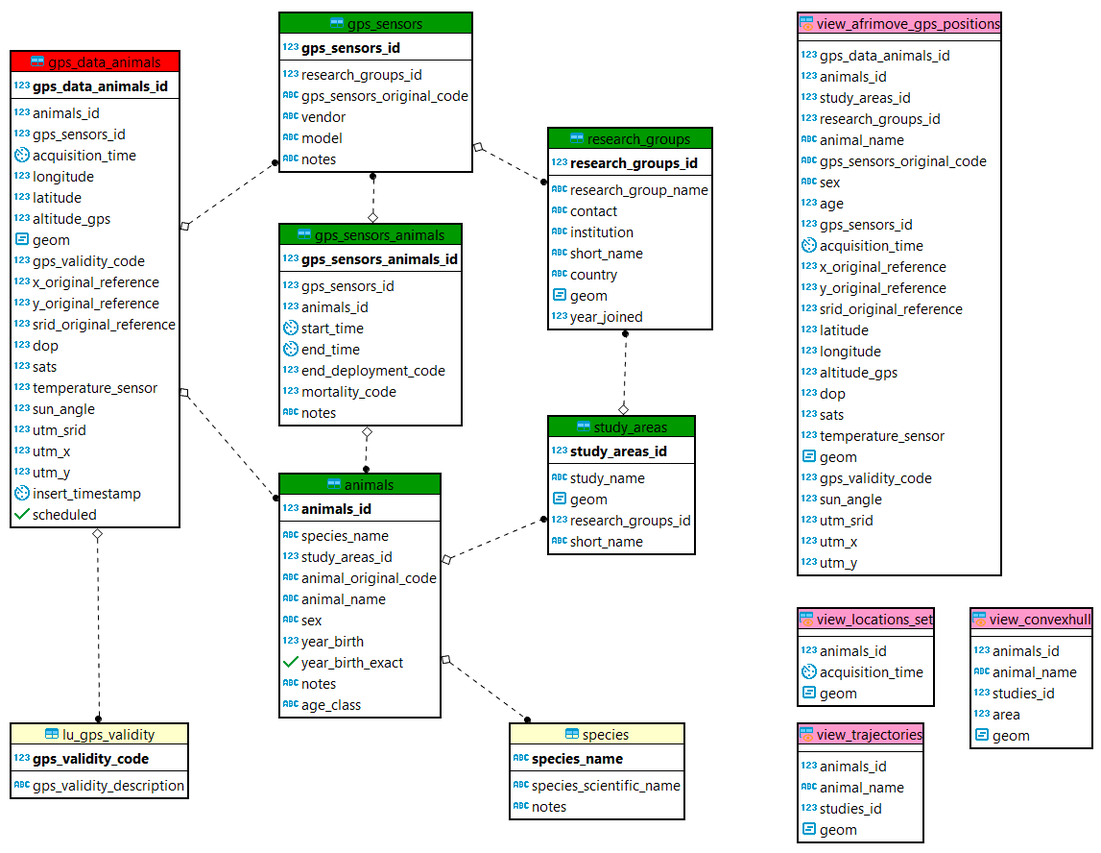
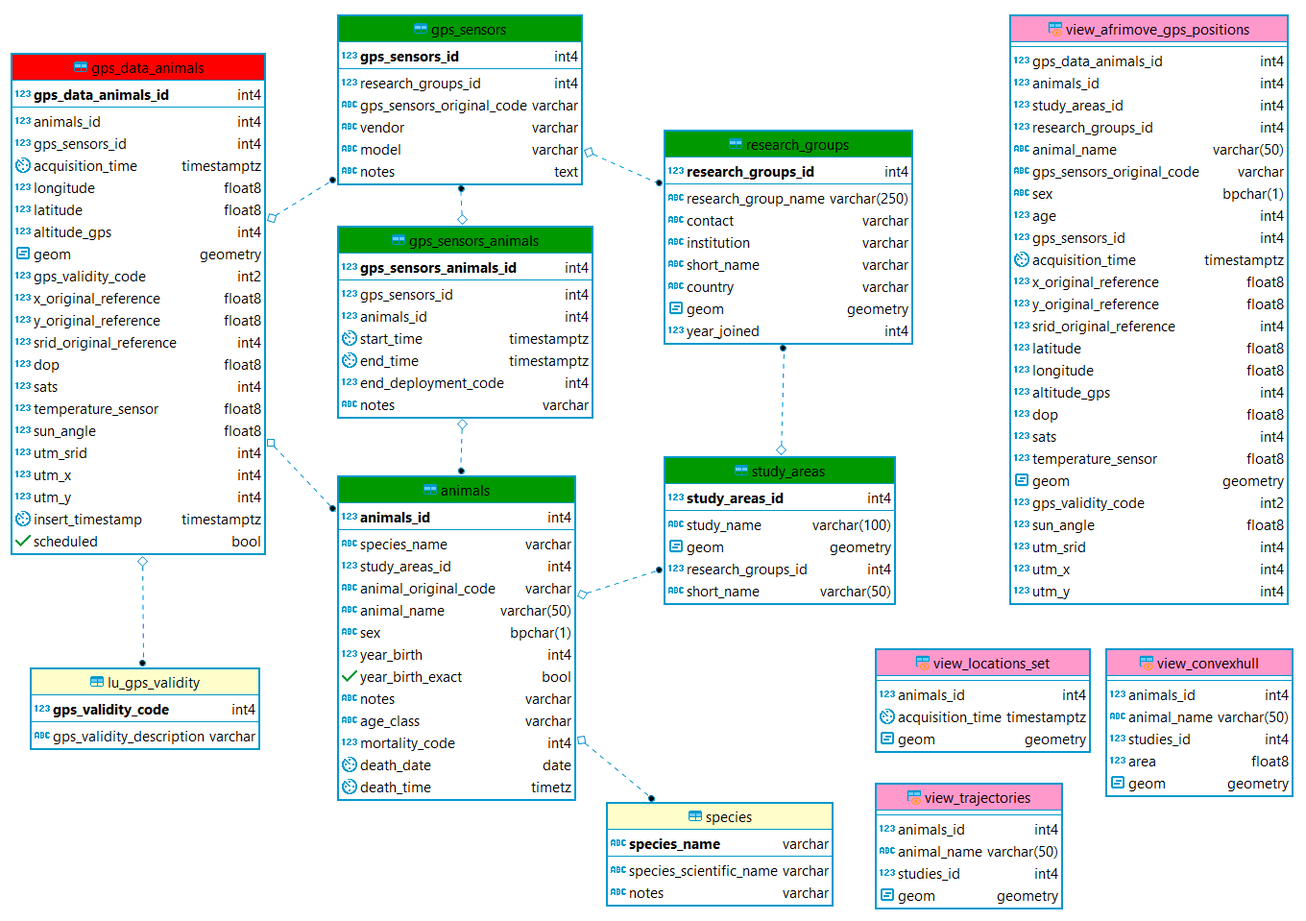
finalization of user guide and minor improvement

diff --git a/db_documentation/user_guide.md b/db_documentation/user_guide.md
@@ -9,7 +9,7 @@
 
 ## <a name="Introduction"></a> Introduction  
 
-This manual is a (very synthetic) technical documentation about the content of **AFRIMOVE database** for the project partners. It illustrates the characteristics of the AFRIMOVE e-infrastructure and the data processing (acquisition, harmonization, quality check). It provides a very general overview of the main features of relational databases for they who do not have any background in data management. It also describes the data that are stored in the AFRIMOVE database and how they are organized, with the description of each table and field stored in the database.  
+This manual is a (very synthetic) technical documentation about the content of **AFRIMOVE database** for the project partners. It illustrates the characteristics of the AFRIMOVE e-infrastructure and the data processing steps (acquisition, harmonization, quality check). It provides a very general overview of the main features of relational databases for they who do not have any background in data management. It also describes the data that are stored in the AFRIMOVE database and how they are organized, with the description of each table and field stored in the database.  
 
 Note that this is not a comprehensive manual about database. It shortly introduces the AFRIMOVE database content and the main operations that can be done on it. For an introduction to the database language (Structured Query Language, SQL) you can explore one of the many online tutorials. In particular, the **[training material](https://github.com/feurbano/data_management_2018/)** of the course *"Dealing with Spatio-temporal Data in Movement and Population Ecology"*, June 17-22 2018 - Trento, Italy, which is specifically tailored on movement data (and that uses the same database structure as AFRIMOVE).  
 Other open tutorials, guides and courses available on the web are for example:
@@ -25,7 +25,7 @@ For an introduction to PostGIS (the spatial extension of PostgreSQL), you can gi
 
 * [PostGIS into by BoundlessGeo](http://workshops.boundlessgeo.com/postgis-intro/)
 
-In addition, for they who want to understand the technicalities of (or replicate the) AFRIMOVE database structure and tools or to get more skills on data management for wildlife tracking data, we suggest the book *[Spatial Database for GPS Wildlife Tracking Data- A Practical Guide to Creating a Data Management System with PostgreSQL/PostGIS and R](https://www.springer.com/us/book/9783319037424)* (Urbano & Cagnacci Ed., 2014). Contact the AFRIMOVE coordinator if you want a digital version of the chapters of the book (for AFRIMOVE partners).
+In addition, for they who want to understand the technicalities of (or replicate) the AFRIMOVE database structure and tools or to get more skills on data management for wildlife tracking data, we suggest the book *[Spatial Database for GPS Wildlife Tracking Data- A Practical Guide to Creating a Data Management System with PostgreSQL/PostGIS and R](https://www.springer.com/us/book/9783319037424)* (Urbano & Cagnacci Ed., 2014). Contact the AFRIMOVE coordinator if you want a digital version of the chapters of the book (for AFRIMOVE partners).
 
 AFRIMOVE **database manager** (Ferdinando) and **data curators** (Melinda and Victoria) are always available for AFRIMOVE database users whenever technical support is needed. For example for:  
 
@@ -39,7 +39,7 @@ AFRIMOVE **database manager** (Ferdinando) and **data curators** (Melinda and Vi
 
 The **[AFRIMOVE spatial databases](http://eurodeer2.fmach.it/phppgadmin/)** is hosted at [Edmund Mach Foundation](http://www.fmach.it/).
 
-More information on the projects, including activities, partners, outcomes and news can be found at the **[AFRIMOVE website](http://www.AFRIMOVE.org)**.
+More information on the project, including activities, partners, outcomes and news can be found at the **[AFRIMOVE website](http://www.AFRIMOVE.org)**.
 
 The participation to the project and the use of the data stored in the database is ruled by the Terms of Use signed by each partner. It is a kind of gentlemen agreement mainly based on good sense. The most important point is *"[...] The Partners maintain full property and control of their own dataset [...]"*. No ownership is transferred and data are used only if data owners explicitly authorize it for each specific research. This also mean that data are not open to the public. But the network is open to any interested scientist.
 
@@ -47,13 +47,13 @@ The content of this guide is largely derived (and adapted) from the **[EURODEER 
 
 ## <a name="AFRIMOVE_Overview"></a> Database Overview
 
-The main goal of AFRIMOVE project is to join and harmonize tracking data of African animals and additional information from different research groups located in different countries in a common data repository. To achieve this goal, we set up a software platform that enables all partners to access, manage and analyze the shared data in a cost-effective fashion. The main requirements of the project and the assessment of possible solutions are described in the paper [Wildlife tracking data management: a new vision ](http://rstb.royalsocietypublishing.org/content/365/1550/2177)(Urbano et al., 2013).
+The main goal of AFRIMOVE project is to join and harmonize tracking data of African wildlife and additional information from different research groups located in different countries in a common data repository. To achieve this goal, we set up a software platform that enables all partners to access, manage and analyze the shared data in a cost-effective fashion. The main requirements of the project and the assessment of possible solutions are described in the paper [Wildlife tracking data management: a new vision ](http://rstb.royalsocietypublishing.org/content/365/1550/2177)(Urbano et al., 2013).
 
-The main technical result is a relational database management system with a spatial extension, built on the open source software [PostgreSQL](www.postgresql.org) (at 2018, version 9.5) and [PostGIS](www.postgis.org) (at 2018, version 2.3). It also includes the extension [Pl/R](https://github.com/postgres-plr/plr) that allows the integration of R tools into the database. The AFRIMOVE database is physically installed on a server at Edmund Mach Foundation, but it is accessible from everywhere in the world (by users with registered account). It works as a centralized server that sends data, when requested, to client applications. A client is a software that accesses the remote service (database) on another computer system (server), by way of a network; the client application can be located anywhere and multiple connections to the database can be managed at the same time. Example of client applications are those used to manage the data (e.g., pgAdmin, phpPgAdmin), visualize spatial information (e.g., QGIS, ArcGIS) or perform analysis (e.g., R).
+The main technical result is a relational database management system with a spatial extension, built on the open source software [PostgreSQL](www.postgresql.org) (at 2018, version 9.5) and [PostGIS](www.postgis.org) (at 2018, version 2.5). It also includes the extension [Pl/R](https://github.com/postgres-plr/plr) that allows the integration of R tools into the database. The AFRIMOVE database is physically installed on a server at Edmund Mach Foundation, but it is accessible from everywhere in the world (by users with a registered account). It works as a centralized server that sends data, when requested, to client applications. A client is a software that accesses the remote service (database) stored on another computer system (server), by way of a network; the client application can be located anywhere and multiple connections to the database can be managed at the same time. Example of client applications are those used to manage the data (e.g., pgAdmin, phpPgAdmin), visualize spatial information (e.g., QGIS, ArcGIS) or perform analysis (e.g., R).
 
 The server-client structure of the system offers the opportunity to build a very flexible and modular software platform, as any software able to connect to the central database can be integrated. Storing, managing, accessing and analysing GPS data from several research groups throughout Europe is thus possible, while each researcher can use its favourite software application, preserving the consistency of the data and avoiding data duplication with connected risk of errors. The most used applications to interact with the AFRIMOVE database are Desktop GIS, statistics and Web tools, as well as office suites. 
 
-In the document [Database connection](https://github.com/afrimove/afrimove_db/blob/master/db_documentation/db_connection.md) you can see some of these applications and how to connect them with the AFRIMOBE database, while in [Database Content](#AFRIMOVE_Content) and [Database Objects Description](#AFRIMOVE_Objects) you can explore database structure and content.  
+In the document [Database connection](https://feurbano.github.io/afrimove_db/db_documentation/db_connection.html) you can see some of these applications and how to connect them with the AFRIMOBE database, while in [Database Content](#AFRIMOVE_Content) and [Database Objects Description](#AFRIMOVE_Objects) you can explore database structure and content.  
 In this section, you find an overview of the whole process from data acquisition to data ingestion into the AFRIMOVE database, with a very short introduction to the main features of relational database. 
 
 ### AFRIMOVE data work flow
@@ -62,7 +62,7 @@ In this section, you find an overview of the whole process from data acquisition
 Data stored in the afrimove_db is collected by project partners who fully own the data. No data are collected by AFRIMOVE project itself, which is instead a project to share data of individual institutions. 
 
 #### Data harmonization
-A challenging part in the creation of the afrimove_db is the harmonization of data sets from different sources. First of all, it is necessary to identify a set of information that are collected by all (or at least most of) the partners. Then, even when the information is related to the same objects phenomena, it can be collected, coded or stored in different ways (e.g., sampling methods, units, classes). The data have been processed to speak "the same language". In some cases this requires the aggregation of the original data, but this is the only way to run analysis over different areas and environmental gradients.  
+A challenging part in the creation of the afrimove_db is the harmonization of data sets from different sources. First of all, it is necessary to identify a set of information that are collected by all (or at least most of) the partners. Then, even when the information is related to the same objects phenomena, it can be collected, coded or stored in different ways (e.g., sampling methods, units, classes). The data is processed to speak "the same language". In some cases this requires the aggregation of the original data, but this is the only way to run analysis over different areas and environmental gradients.  
 Particularly, data owners are asked (with the support of the AFRIMOVE data curators) to format the data in order to be consistent with the afrimove_db. Then, it is up to the database manager and data curators to process data and upload into the database.
 
 #### Quality checks
@@ -141,54 +141,227 @@ Although any application that support standard database connection can be used w
 
 ## <a name="AFRIMOVE_Content"></a> Database content
 
-
-<center><img src="images/db_schema.png" height="600"/></center>
-
------>
-
-The EURODEER database is the repositories where data coming from the different partners of the EURODEER network are harmonized, stored and shared to be analyzed. The first goal of EURODEER is to investigate variations in roe deer behavioural ecology along environmental gradients or population responses to specific conditions, such as habitat changes, impact of human activities, different hunting regime. Therefore, the main set of data stored into the EURODEER database are those generated by biotelemetry sensors to monitor animals movement, particularly:
+The AFRIMOVE database is the repositories where data coming from the different partners of the AFRIMOVE network are harmonized, stored and shared to be analyzed. The first goal of AFRIMOVE is to investigate variations in roe deer behavioural ecology along environmental gradients or population responses to specific conditions, such as habitat changes, impact of human activities, different hunting regime. Therefore, the main set of data stored into the database are those generated by biotelemetry sensors to monitor animals movement, particularly:
 
 * GPS data
 * VHF data
 * Accelerometer data
 
-These are the core information that was initially collected and shared in the EURODEER framework. After some years, we realized that while these data sets provide a huge mine of data to dig, it is when they are couple with additional information like that of the individuals, populations, management regimes and the environment that they can help to fully decipher the mechanisms of animals movement. This is why in the last years EURODEER has been and is still investing a lot in getting these additional information from each partner, harmonize them and integrate into the analysis. This is a complex process but ultimately it is the biggest added value of the collaboration among scientist on top of the integration into a single repository of the data coming from sensors. The work of data harmonization requires long and iterative discussions but it is also an opportunity to identify good practice (e.g. data collection protocols) that can then be shared with a wider scientific community.
+These are the core information that are collected and shared in the AFRIMOVE framework. But while these data sets provide a huge mine of data to dig, it is when they are couple with additional information like that of the individuals, populations, management regimes and the environment that they can help to fully decipher the mechanisms of animals movement. This is why we aim at collecting also these additional information from each partner, harmonize them and integrate into the analysis. This is a complex process but ultimately it is the biggest added value of the collaboration among scientist on top of the integration into a single repository of the data coming from sensors. The work of data harmonization requires long and iterative discussions but it is also an opportunity to identify good practice (e.g. data collection protocols) that can then be shared with a wider scientific community.
 
-Sensor data sets (GPS, VHF, accelerometer) in addition to the measures collected by the sensors include the list of animals (with key attributes like sex and age), the list and type/model of sensors, and the start and end of sensor deployment (with the reason for the end of deployment).
-In addition to sensor data, at the moment in the EURODEER data sets we have information on:
+Sensor data sets (GPS, VHF, accelerometer) in addition to the measures collected by the sensors include the list of animals (with key attributes like sex, age and how hey died), the list and type/model of sensors, and the start and end of sensor deployment (with the reason for the end of deployment).
 
-* Research groups, study areas and sub-areas
-* Intra- and inter-species interaction and human pressure (predation, competition, human pressure)
-* Captures
-* Contacts
-* Feeding sites
-* Environmental data
+Here below is reported a simplified ER diagram. It illustrates the main tables and views and the relations among the tables.
+<center><img src="images/db_schema.png" height="600"/></center>
 
-A short description of the information content of these data sets is reported in the next sub-sections together with a diagram of the data model. In the document **[eurodeer_db Dictionary](eurodeer_db_dictionary.md)** is reported the full description of each table/attribute.
+A short description of the information content of these data sets is reported in the next sub-sections together with a diagram of the data model. 
 
-All the core information is stored in the schema **main**, with the exception of the environmental data that are available in the schema **env_data** and the schema **env_data_ts** (for layers with a time series, e.g., NDVI and snow). In the schema **tools** there are the functions created by EURODEER to process and analyze the data (see [functions](eurodeer_db_functions.md)). The schema **analysis** is used to store informations related to analysis that can be reused by all EURODEER partners. The working schema **ws\_*** are spaces where each partner institution can create table and process the data (one per institute). Finally, in the **lu_tables** schema, the database stores all the look up tables, i.e., those tables used to define (code) a valid domain of values for specific fields (e.g., the list of capture methods).
+All the core information is stored in the schema **main**, with the exception of the environmental data that are available in the schema **env_data** and the schema **env_data_ts** (for layers with a time series, e.g., NDVI and snow). In the schema **tools** there are the functions created to process and analyze the data. The schema **analysis** is used to store informations related to analysis that can be reused by all partners. The working schema **ws\_*** are spaces where each partner institution can create table and process the data (one per institute). Finally, in the **lu_tables** schema, the database stores all the look up tables, i.e., those tables used to define (code) a valid domain of values for specific fields (e.g., the list of capture methods).
 
 ### Research groups, study areas and sub-areas
-Sensor data are always related to animals. Each animal is assigned to one (and only one) study area. Each study area belongs to (is monitored by) a research group. The same research group can have more than one study area. Each study area is divided into one or more sub-areas, that roughly recall the concept of population. Each sub-area is characterized by a set of information (human disturbance, performance, predators, interspecific competition, hunting pressure, road density, which are collected every one or more years. Sensors (GPS, VHF, accelerometer) are also attributed to a specific research group.
-In the view **main.view_reasearch_groups_euroungulates** all the groups belonging to EUROUNGULATES are reported (through external tables that connect with EUREDDEER and EUROBOAR database).
-  
-The entity-relationship (ER) diagram of the tables is reported here below (click on it to enlarge).
-<img src="images/er_core.png" height="600"/>
+Sensor data are always related to animals. Each animal is assigned to one (and only one) study area. Each study area belongs to (is monitored by) a research group. The same research group can have more than one study area. Sensors (GPS, VHF, accelerometer) are attributed to a specific research group.
 
 ### GPS data
-GPS locations are stored already associated to animals (which is a non-trivial step, specially when the same sensor is associated to different animals once recovered from the previous one). The locations, with a list of derived ancillary information calculated using the information on coordinates and acquisition time, and intersecting with environmental layers are stoerd in the table **main.gps_data_animals**. The original file coming from the sensor is not stored in EURODEER as in the database are shared data already preprocessed by the partners and only quality checked before being uploaded into eurodeer_db. It is important to note that all the outliers are not removed from the dataset but flagged using the field *gps_validity_code*. This includes, among the others, records with no coordinates, records with wrong coordinates, record with suspicious coordinates, records not registered while the sensor was deployed on the animal. When data are analyzed, records must be selected according to the quality level required by the specific analysis.  
+GPS locations are stored already associated to animals (which is a non-trivial step, specially when the same sensor is associated to different animals once recovered from the previous one). The locations, with a list of derived ancillary information calculated using the information on coordinates and acquisition time, and intersecting with environmental layers are stored in the table **main.gps_data_animals**. The original file coming from the sensor is not stored in the db as in the database are shared data already preprocessed by the partners and only quality checked before being uploaded. It is important to note that all the outliers are not removed from the dataset but flagged using the field *gps_validity_code*. This includes, among the others, records with no coordinates, records with wrong coordinates, record with suspicious coordinates, records not registered while the sensor was deployed on the animal. When data are analyzed, records must be selected according to the quality level required by the specific analysis.  
 The information on the deployment are stored in the table **main.gps_sensors_animals**, including the reasons of the end of the deployment. This table is used to check the correct attribution of locations to animals in the table **main.gps_data_animals**. Information on sensors are stored in **main.sensors**, while the information on animals in **main.animals**. A set of look up tables are used to store the list of valid values for some columns of these tables.  
-In the views **analysis.view_convexhull** and ** analysis.view_trajectories** are available the trajectories and convex hull polygons related to each animal (and dynamically updated). These can be loaded in QGIS for spatial visualization. In the view **analysis.view_ltraj_class** data are formatted according to [R adehabitat package](https://cran.r-project.org/web/packages/adehabitat/adehabitat.pdf) to facilitate the import for analysis. See **[eurodeer_db Dictionary](eurodeer_db_dictionary.md)** for the complete list of view associted to GPS data.
-
-The entity-relationship (ER) diagram of the tables is reported here below (click on it to enlarge).
-<center><img src="images/er_gps.png" height="600"/></center>
+In the views **analysis.view_convexhull** and ** analysis.view_trajectories** are available the trajectories and convex hull polygons related to each animal (and dynamically updated). These can be loaded in QGIS for spatial visualization. In the view **analysis.view_ltraj_class** data are formatted according to [R adehabitat package](https://cran.r-project.org/web/packages/adehabitat/adehabitat.pdf) to facilitate the import for analysis.
 
 ### Environmental data
 *WORK IN PROGRESS*
 
-## <a name="AFRIMOVE_Objects"></a> Database Objects Description
+# <a name="AFRIMOVE_Objects"></a> Database Objects Description
+
 Every single object in the afrimove_db (schemas, tables, columns, views, functions) is described inside the database (as [comment](https://www.postgresql.org/docs/devel/static/sql-comment.html)). The descriptions are visible in all db interface (e.g., pgAdmin) when the element is selected. 
 
------>
-An extended report, **[eurodeer_db Dictionary](eurodeer_db_dictionary.md)** that includes the description of the objects of the database (generate with this [SQL code](generate_database_dictionary_sql/generate_dictionary.md) in markdown format, taking the comments from the database itself).
+Here you can see a short report that includes the description of the objects of the database (schema, tables, columns) in markdown format, taking the comments from the database itself.
+
+## SCHEMA: main  
+**The schema "main" is the place where all the core information of the main objects are stored: data from sensors (at the moment, GPS, VHF, activity), sensors, animals, studies, research groups.**  
+
+### TABLE: main.animals  
+Table with the information on the animals.  
+
+#### COLUMNS 
+
+* **animals\_id** [integer]: *Database id of population. Each animal belongs to a population, which is part of a study area. The same study area can have multiple populations. Linked with the table main.populations.* 
+* **species\_name** [character varying]: *Name of the species of the individual.* 
+* **study\_areas\_id** [integer]: *Study area where the animal is located (reference to table main.study\_area).* 
+* **animal\_original\_code** [character varying]: *Identifier of the animal in the original data set.* 
+* **animal\_name** [character varying]: *Nome of the animal in the original data set.* 
+* **sex** [character]: *Code for sex. It can be either "f" (female) or "m" (male). When the sex is not known, the field can be left empty.* 
+* **year\_birth** [integer]: 
+* **year\_birth\_exact** [boolean]: 
+* **notes** [character varying]: *Open field where general notes on the animals can be added.* 
+* **age\_class** [character varying]: *Age class of the animal (e.g. adult). This information is not coded as the age class might vary according to the species.* 
+* **mortality\_code** [integer]: 
+* **death\_date** [date]: 
+* **death\_time** [time with time zone]: 
+
+### TABLE: main.gps\_data\_animals  
+Table with GPS locations data associated to animals and with a list of derived ancillary information calculated using the information on coordinates and acquisition time, and intersecting with environmental layers.  
+
+#### COLUMNS 
+
+
+* **gps\_data\_animals\_id** [integer]: *Eurodeer identifier for the location.* 
+* **animals\_id** [integer]: *Eurodeer identifier for the animal.* 
+* **gps\_sensors\_id** [integer]: *Eurodeer identifier for the GPS sensor.* 
+* **acquisition\_time** [timestamp with time zone]: *Date and time of acquisition of the GPS coordinates (with time zone).* 
+* **longitude** [double precision]: *Longitude recorded by the GPS sensor.* 
+* **latitude** [double precision]: *Latitude recorded by the GPS sensor.* 
+* **altitude\_gps** [integer]: *Altitude recorded by the GPS sensor (related to the centre of the earth).* 
+* **geom** [USER-DEFINED]: *Geometry of the location (point).* 
+* **gps\_validity\_code** [smallint]: *This field tags the record according to its "validity" or degree of reliability (explanation of codes in lu\_tables.lu\_gps\_validity).* 
+* **x\_original\_reference** [double precision]: *Coordinate X as computed by the software connected to the GPS sensor (in the srid\_original\_reference).* 
+* **y\_original\_reference** [double precision]: *Coordinate Y as computed by the software connected to the GPS sensor (in the srid\_original\_reference).* 
+* **srid\_original\_reference** [integer]: *Reference system of the projected coordinates provided by the software connected to the GPS sensor.* 
+* **dop** [double precision]: *Dilution Of Precision.* 
+* **sats** [integer]: *Number of satellites used by the GPS sensor to calculate the coordinates.* 
+* **temperature\_sensor** [double precision]: *Temperature as measured by the sensor associated to the GPS.* 
+* **sun\_angle** [double precision]: *Sun angle above (or below) the horizon (in degrees) as computed by the function tools.sun\_elevation\_angle\_function.* 
+* **utm\_srid** [integer]: *SRID code of the UTM zone of the centroid of the locations for the animal.* 
+* **utm\_x** [integer]: *X coordinate projected in the utm\_srid UTM zone.* 
+* **utm\_y** [integer]: *Y coordinate projected in the utm\_srid UTM zone.* 
+* **insert\_timestamp** [timestamp with time zone]: *Date and time when the record was uploaded into the database.* 
+* **scheduled** [boolean]: *Some locations might be taken even if they were not scheduled (in this case, the value is FALSE).* 
+
+### TABLE: main.gps\_sensors  
+Catalogue of GPS sensors. Each sensor belongs to a research group. The attributes include the brand and the model. The id used in the original data set is also included.  
+
+#### COLUMNS 
+
+
+* **gps\_sensors\_id** [integer]: *afrimove identifier for GPS sensors.* 
+* **research\_groups\_id** [integer]: *Id of the research group that owns the GPS sensor.* 
+* **gps\_sensors\_original\_code** [character varying]: *Identifier of the GPS sensor in the original data set.* 
+* **vendor** [character varying]: *Company that produced the sensor.* 
+* **model** [character varying]: *Additional notes about the GPS sensor.* 
+* **notes** [text]: 
+
+### TABLE: main.gps\_sensors\_animals  
+Table with the information on the deployments of GPS sensors on animals (starting and ending date and time of the deployment), reason of the end of deployment, reference capture. Here we identify when the sensor stopped to monitor the (alive) animal. So the date is not that of collar recovery (it goes in table animals\_contacts, nor the date of death (table animals).  
+
+#### COLUMNS 
+
+
+* **gps\_sensors\_animals\_id** [integer]: *afrimove identifier of the deployment.* 
+* **gps\_sensors\_id** [integer]: *afrimove identifier of the GPS sensor.* 
+* **animals\_id** [integer]: *afrimove identifier of the animal.* 
+* **start\_time** [timestamp with time zone]: *Time and date of the start of the deployment.* 
+* **end\_time** [timestamp with time zone]: *Time and date of the end of the deployment.* 
+* **end\_deployment\_code** [integer]: *Code for the reason of the end of deployment (reference to the look up table lu\_tables.lu\_end\_deployment).* 
+* **notes** [character varying]: *Open field where general notes on the deployment can be added.* 
+
+### TABLE: main.research\_groups  
+Research groups are the highest level in the hierarchy of the database. Each research group can have many study areas and can own many collars.  
+
+#### COLUMNS 
+
+
+* **research\_groups\_id** [integer]: *afrimove identifier for research groups.* 
+* **research\_group\_name** [character varying]: *Name of the research group.* 
+* **contact** [character varying]: *Contact person of the research group for the afrimove project.* 
+* **institution** [character varying]: *Institute of the research group.* 
+* **short\_name** [character varying]: *Short name of the research group.* 
+* **country** [character varying]: *Country of the research group.* 
+* **geom** [USER-DEFINED]: *Approximate location of the research group.* 
+* **year\_joined** [integer]: *Year when the group joined the afrimove project.* 
+
+### TABLE: main.species  
+Table with the list of species monitored by Afrimove partners.  
+
+#### COLUMNS 
+
+
+* **species\_name** [character varying]: *Name of the species.* 
+* **species\_scientific\_name** [character varying]: *Scientific name of the species.* 
+* **notes** [character varying]: *Notes about the species.* 
+
+### TABLE: main.study\_areas  
+Study areas are the areas monitored by research groups. Each study area can have many animals. Study areas can have defined, approximated, or no specific spatial boundaries.  
+
+#### COLUMNS 
+
+
+* **study\_areas\_id** [integer]: *afrimove identifier for study areas.* 
+* **study\_name** [character varying]: *Name of the study area.* 
+* **geom** [USER-DEFINED]: *Multi polygons layer of study areas. This spatial layer can be used as a reference to locate the study areas. Study areas can have defined boundaries (e.g. fenced). In this case, the field "defined\_bundaries" is set to 1. Otherwise a reference boundary is created as the convex hull polygon (plus a buffer of 1 km) of the existing locations. These boundaries should be updated whenever a new set of locations is uploaded in the database.* 
+* **research\_groups\_id** [integer]: *Indentifier of the research group that is monitoring animals in this study area.* 
+* **short\_name** [character varying]: *Short version of the study area name for maps and short reports.* 
+
+### VIEW: main.view\_afrimove\_gps\_positions  
+Animal locations with valid coordinates and information on animals (study area, research group, age and sex).  
+
+
+### VIEW: main.view\_afrimove\_gps\_positions\_check\_shp  
+Animal locations with valid coordinates and information on animals (study area, research group, age and sex) formatted to be exported as shp (names shorter than dbf limits).  
+
+
+### VIEW: main.view\_afrimove\_gps\_positions\_r  
+Animal locations with valid coordinates and information on animals (study area, research group, age and sex) formatted to be exported in R.  
+
+
+### VIEW: main.view\_afrimove\_gps\_positions\_shp  
+Animal locations with valid coordinates and information on animals (study area, research group, age and sex) formatted to be exported as shp (names shorter than dbf limits).  
+
+
+### VIEW: main.view\_convexhull  
+View with the convex hull of all valid locations per all the animals of afrimove dataset.  
+
+
+### VIEW: main.view\_locations\_set  
+View that returns the core information of locations data (id of the animal, the acquisition time and the geometry). Non valid records are represented without the geometry. Duplicated timestamps  and wrong locations are excluded.  
+
+
+### VIEW: main.view\_trajectories  
+Complete trajectories as linear spatial features per each of the animals of afrimove dataset.  
+
+
+## SCHEMA: lu\_tables  
+**The schema "lu_tables" is where the look up tables (lu_tables) are stored. These tables store the list and the description of codes referenced by other tables in the database and are a kind of valid domain for specific fields.**  
+
+### TABLE: lu\_tables.lu\_end\_deployment  
+Look up table for end\_deployment\_code field: it specifies the meaning of the code used to identify the reasons of the end of deployment.  
+
+#### COLUMNS 
+
+
+* **end\_deployment\_code** [integer]: *Code for the reason of the end of deployment.* 
+* **end\_deployment\_description** [character varying]: *Desciption of the reason of the end of deployment.* 
+### TABLE: lu\_tables.lu\_gps\_validity  
+Look up table for GPS locations validity.  
+
+#### COLUMNS 
+
+
+* **gps\_validity\_code** [integer]: *Code of the GPS locations validity.* 
+* **gps\_validity\_description** [character varying]: *Description of the GPS locations validity code.* 
+### TABLE: lu\_tables.lu\_mortality  
+Look up table for mortality\_code field (table main.animals\_contacts): it specifies the meaning of the code used to identify the reasons of the death of the animal.  
+
+#### COLUMNS 
+
+
+* **mortality\_code** [integer]: *Code for the reason of the death of the animal.* 
+* **mortality\_description** [character varying]: *Desciption of the reason of the death of the animal.* 
+### TABLE: lu\_tables.lu\_temperature\_validity  
+Look up table for temperature locations validity.  
+
+#### COLUMNS 
+
+* **temperature\_validity\_code** [integer]: *Code of the temperature validity.* 
+* **temperature\_validity\_description** [character varying]: *Description of the temperature validity code.*   
+
+## SCHEMA: tools  
+**The schema "tools" hosts all the functions and tools that are used throughout the database to manage, massage, analyse and query data.**  
+
+## SCHEMA: temp  
+**This schema stores temporary objects (tables, functions, ...) used for analysis or for testing purposes. Elements stored in this schema can be deleted at any time by the database administrator.**  
+
+## SCHEMA: public  
+**standard public schema**  
+
+## SCHEMA: ws_cnrs
+**Working schema for members of CNRS. This can be used to create any object they need for their studies. No other users will have access to this schema.**
+
 

diff --git a/db_documentation/db_connection.md b/db_documentation/db_connection.md
@@ -2,11 +2,13 @@
 
 ## <a name="connection"></a> Connecting with the  Database
 
-*Please not that in some pictures you might find a reference to eurodeer_db instead of to afrimove_db. All the examples work perfectly once you replace eurodeer with afrimove as (at the moment) they are hosted on the same server.*
+*Please not that in some pictures you might find a reference to eurodeer_db instead of afrimove_db. All the examples work perfectly once you replace eurodeer with afrimove as (at the moment) they are hosted on the same server.*
 
 [PostgreSQL](https://www.postgresql.org/) is the open source database server platform used by AfriMove in combination with the spatial extension [PostGIS](https://www.postgis.org/) (The role of the database server is to distribute data to client applications keeping the data into a centralized repository. Many different interfaces can be used. Some are focused on the creation, maintenance and development of the database, others to visualize and edit/manipulate tabular or spatial data. Statistical tools can be used to perform analysis on the data. Many graphical interface can be used to offer data in a user-friendly fashion, including through web applications.  
 Users with a permission to access the data can use their favourite application. Examples of how to connect with the database from different software tools are reported in the next sub-section.   
 You do **NOT** need to install PostgreSQL to connect with AfriMove db. The database is stored on a PostgreSQL server at the Edmund Mach Foundation. You only need a client application, or, in the case of phpPgAdmin, a web browser (e.g. Mozilla Firefox).
+
+AFRIMOVE db is based on PostgreSQL 9.5 and PostGIS 9.5.
 
 Any client need the following parameters to connect with the database:
 

diff --git a/README.md b/README.md
@@ -4,5 +4,5 @@
 AfriMove is an open, bottom-up project joined by research centres and environmental institutes to promote collaborative science based on knowledge and data sharing to investigate the movement ecology of African wildlife in a variety of habitats and under different management regimes.  
 In these pages you can find the database documentation, the most relevant SQL code and part of the code used for analysis.
 
-**[How to connect with AfriMove database](https://github.com/afrimove/afrimove_db/tree/master/db_documentation/db_connection.md)**: a short guide that illustrates how to connect with the database to visualize, manipulate and download data. 
-test
+* **[AfriMove User Guide](https://feurbano.github.io/afrimove_db/user_guide/db_connection.html)**: a short introduction to the AfriMove project with a description of the database and its content.
+* **[How to connect with AfriMove database](https://feurbano.github.io/afrimove_db/db_documentation/db_connection.html)**: a short guide that illustrates how to connect with the database to visualize, manipulate and download data. 
